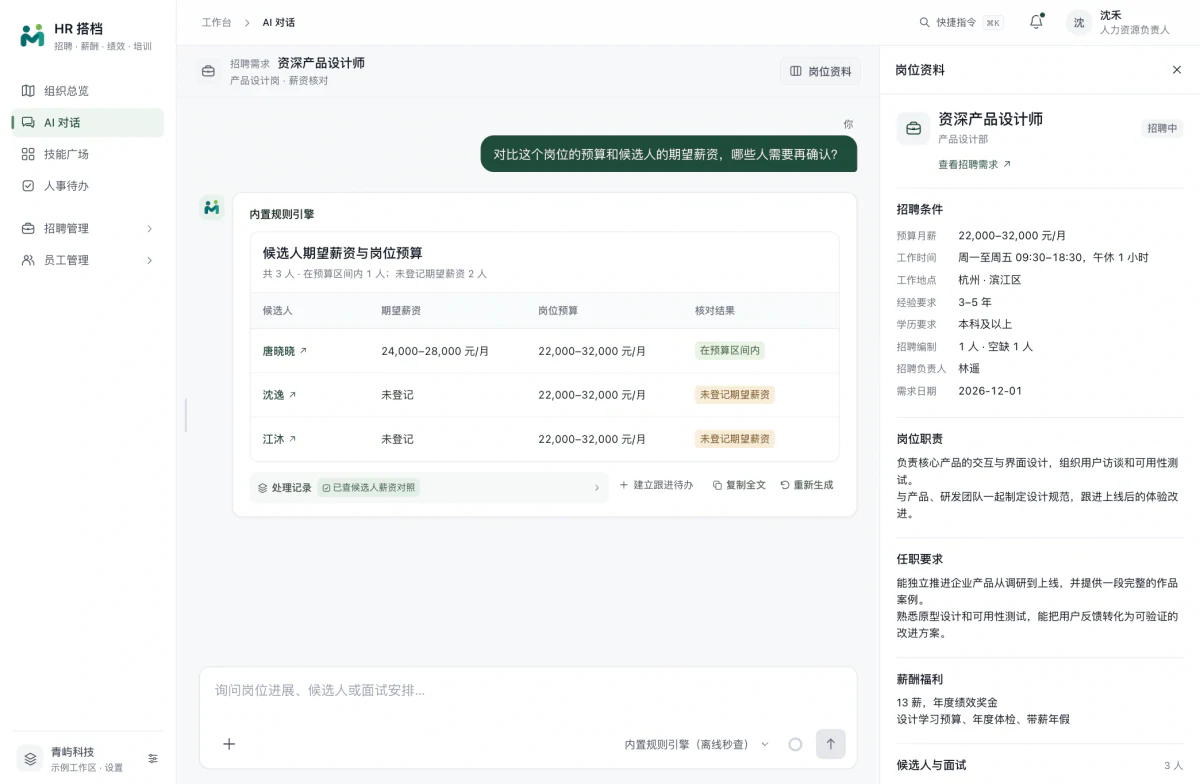
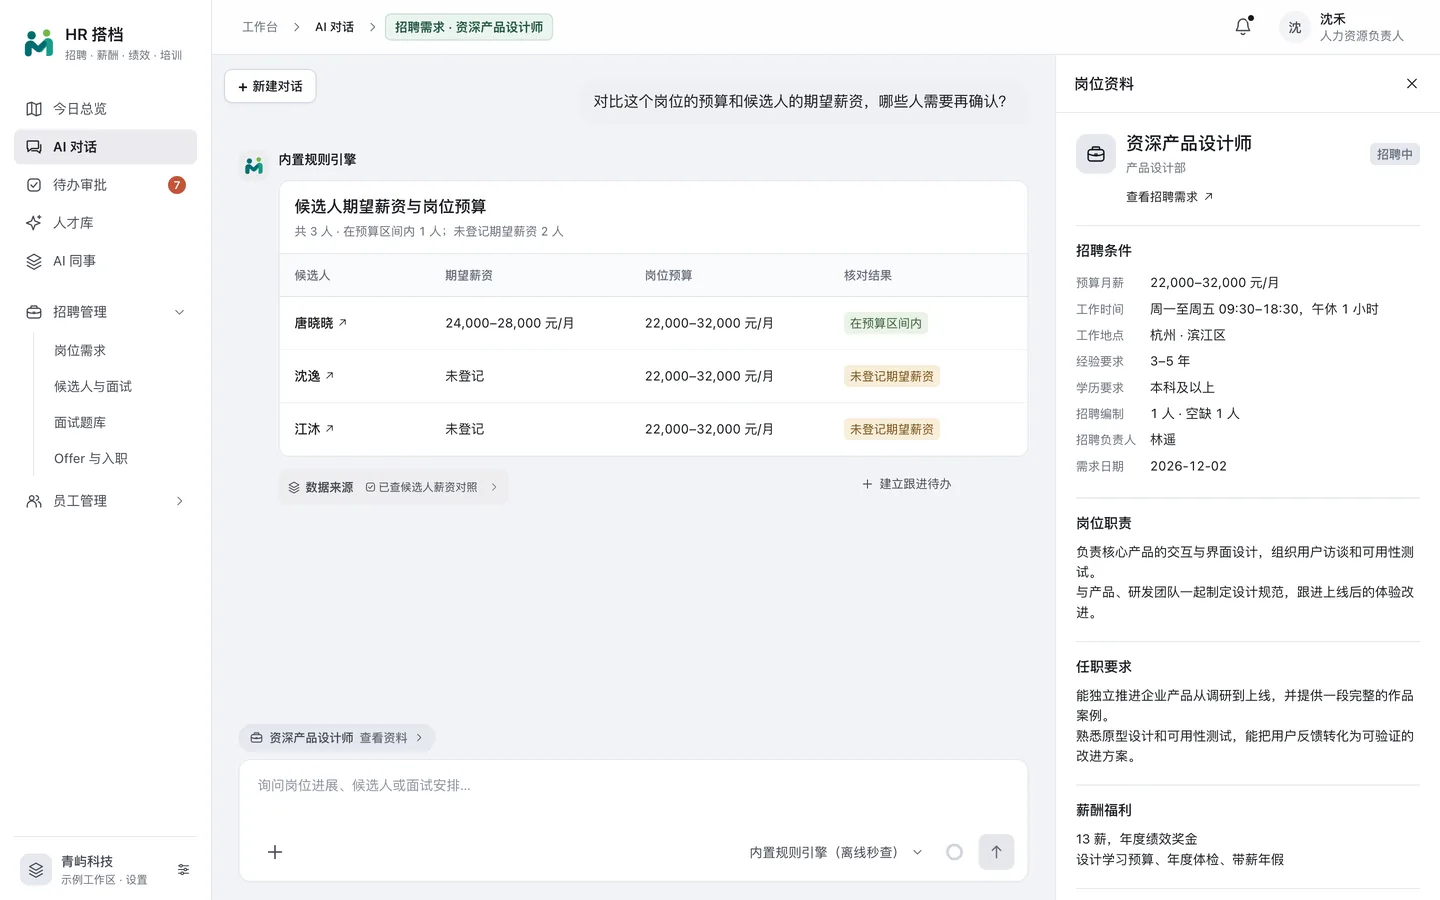
Update HR Studio showcase copy, live link, and 2x Retina screenshots

diff --git a/app/projects/hr-studio/page.tsx b/app/projects/hr-studio/page.tsx
@@ -8,13 +8,13 @@ import { LightboxProvider, LightboxTrigger, type LightboxItem } from "../Lightbo
 import { ProjectPager } from "../ProjectPager";
 
 const title = "HR 搭档 · AI 人事工作台";
-const description = "从工位打开员工档案，核对薪酬、绩效和培训记录。招聘团队可以从岗位需求跟进到面试和入职，也能在岗位会话里让 AI 整理面试材料。";
+const description = "以 AI 同事、待办审批、企业人才库与交互式组织地图为核心的 AI-Native 人事工作台。日常巡检由 AI 主动起草并汇总确认，员工档案、薪酬绩效与全流程招聘在同一工作区内闭环联动。";
 const base = "/projects/hr-studio";
 const cover = {
   url: base + "/workspace-overview.webp",
-  alt: "HR 搭档完整工作台，包括左侧导航、组织指标、六个部门的工位地图和当日事项",
-  width: 2304,
-  height: 2223,
+  alt: "HR 搭档工作台首页，包括左侧导航、组织指标、六个部门的工位地图、常驻 AI 同事条与当日事项",
+  width: 2880,
+  height: 2822,
 };
 
 export const metadata: Metadata = {
@@ -35,13 +35,52 @@ type Scene = {
   height?: number;
 };
 
+const aiNative: Scene[] = [
+  {
+    id: "ai-colleagues",
+    title: "四位专职 AI 同事，规则透明可控",
+    text: "寻访、面试、初筛与核薪四位搭档各司其职，卡片直接标明触发时机与执行方式。可随时暂停、调整规则与偏好记忆，并在同事列表、运行记录与技能广场之间一键切换。",
+    image: "ai-colleagues.webp",
+    width: 2880,
+    height: 1720,
+    alt: "AI 同事页面，展示寻访搭档、面试搭档、初筛搭档与核薪搭档的触发规则与启停开关",
+  },
+  {
+    id: "ai-inbox",
+    title: "待办审批：日常待办与 AI 建议同屏处理",
+    text: "同一页统一承接日常待办、AI 待确认与已处理记录。AI 产出的排期、催评、翻库推荐与核薪异常按事务分组，支持一键批量确认、改期或驳回并记住偏好。",
+    image: "ai-inbox.webp",
+    width: 2880,
+    height: 1840,
+    alt: "待办审批页面，按事务分组展示 AI 待确认建议，支持批量确认与切换日常待办",
+  },
+  {
+    id: "talent-pool",
+    title: "独立沉淀企业人才库",
+    text: "将银牌候选人、可回流前员工与在职活水沉淀为独立人才资产，直接标出经面试验证的技能、期望薪资、90 天冷却期与授权状态，避免重复打扰。",
+    image: "talent-pool.webp",
+    width: 2880,
+    height: 1800,
+    alt: "企业人才库列表，展示银牌候选人、前员工、验证技能与筛选标签",
+  },
+  {
+    id: "talent-rediscover",
+    title: "开新岗先翻库，一键激活或建岗",
+    text: "按在招岗位自动匹配库内高契合人选，点按即可加入候选人进入流程；也支持一句话输入需求直接建岗，优先盘活已有储备。",
+    image: "talent-rediscover.webp",
+    width: 2880,
+    height: 1800,
+    alt: "按岗位匹配人才库视图，展示匹配度与一键加入候选人操作",
+  },
+];
+
 const office: Scene = {
   id: "office",
   title: "点开工位，查看这位同事的档案",
   text: "点开产品设计部顾思远的工位，右侧就能读到他的岗位职责、工作经历和在司奖励。想看更近的变动，可以切到薪酬记录或绩效回顾。关上档案就回到原来的地图。",
   image: "office-person-drawer.webp",
-  width: 2304,
-  height: 1500,
+  width: 2880,
+  height: 1800,
   alt: "从组织地图点开员工后，右侧显示员工档案，背景仍可见原来的部门与工位",
 };
 
@@ -95,6 +134,8 @@ const hiring: Scene[] = [
     title: "沿着招聘看板跟进人选",
     text: "从上方漏斗选中一个阶段，查看相应的候选人。看板卡片保留岗位和面试安排，拖动到新阶段可继续办理。",
     image: "hiring-board.webp",
+    width: 2880,
+    height: 1840,
     alt: "招聘漏斗及按面试阶段排列的人选卡片",
   },
   {
@@ -129,22 +170,33 @@ const hiring: Scene[] = [
 
 const assistant: Scene[] = [
   {
+    id: "scope",
+    title: "绑定业务对象，边对话边核对资料",
+    text: "从左侧新建对话一键绑定部门、员工或招聘需求，顶部路径明确标注当前对象。讨论岗位或薪资时展开右侧资料，即可对照预算、人选期望与面试进度，并支持内置引擎离线秒查。",
+    image: "ai-context.webp",
+    width: 2880,
+    height: 1800,
+    alt: "对照岗位资料抽屉与候选人薪资信息的 AI 对话界面，顶部清晰标出当前绑定的招聘需求",
+  },
+  {
+    id: "skills",
+    title: "技能广场：复用与导入 HR 工作法",
+    text: "按招聘、面试、薪酬与组织场景沉淀标准技能，也支持导入 SKILL.md 扩展自定义流程，在 AI 对话中一键带入执行。",
+    image: "skills.webp",
+    width: 2880,
+    height: 1840,
+    alt: "技能广场页面，支持按分类筛选、搜索以及导入自定义技能",
+  },
+  {
     id: "interview",
     title: "根据简历和岗位准备追问",
     text: "在岗位会话中选定候选人，生成面试准备单。已记录的经历和有待确认的问题分开呈现，点击引用可以回到来源档案。",
     image: "ai-interview.webp",
     alt: "岗位会话里的候选人面试准备单与资料引用",
   },
-  {
-    id: "scope",
-    title: "边对话，边核对岗位资料",
-    text: "会话可以绑定部门、员工或招聘需求。讨论薪资时展开右侧资料，可同时查看岗位预算、候选人的期望和面试进度。",
-    image: "ai-context.webp",
-    alt: "对照岗位资料抽屉与候选人薪资信息的会话界面",
-  },
 ];
 
-const allScenes: Scene[] = [office, ...employee, ...hiring, ...assistant];
+const allScenes: Scene[] = [...aiNative, office, ...employee, ...hiring, ...assistant];
 const indexById = new Map<string, number>(allScenes.map((s, i) => [s.id, i + 1]));
 
 const lightboxItems: LightboxItem[] = [
@@ -197,6 +249,14 @@ export default function HRStudioPage() {
           <p className={styles.kicker}>03 · AI 人事工作台</p>
           <h1 id="hr-title" className={styles.longTitle}>{title}</h1>
           <p className={styles.lead}>{description}</p>
+          <a
+            href="https://hr-dadang.vercel.app/"
+            target="_blank"
+            rel="noopener noreferrer"
+            className={`cursor-target ${styles.demoLink}`}
+          >
+            在线体验 ↗
+          </a>
           <figure className={gallery.overview}>
             <LightboxTrigger
               index={0}
@@ -211,10 +271,17 @@ export default function HRStudioPage() {
         </section>
         <div className={styles.wrap}>
           <nav className={gallery.contents} aria-label="功能导览">
+            <a href="#ai-native">AI 同事与人才库</a>
             <a href="#employees">员工管理</a>
             <a href="#recruitment">招聘管理</a>
-            <a href="#ai">AI 面试协作</a>
+            <a href="#ai">AI 对话与技能</a>
           </nav>
+          <section id="ai-native" className={gallery.chapter} aria-labelledby="ai-native-title">
+            <h2 id="ai-native-title">AI 同事与人才库</h2>
+            <div className={gallery.grid}>
+              {aiNative.map((scene) => <Screen key={scene.id} scene={scene} />)}
+            </div>
+          </section>
           <section id="employees" className={gallery.chapter} aria-labelledby="employees-title">
             <h2 id="employees-title">员工管理</h2>
             <Screen scene={office} fitContent />
@@ -229,7 +296,7 @@ export default function HRStudioPage() {
             </div>
           </section>
           <section id="ai" className={gallery.chapter} aria-labelledby="ai-title">
-            <h2 id="ai-title">AI 面试协作</h2>
+            <h2 id="ai-title">AI 对话与技能</h2>
             <div className={gallery.grid}>
               {assistant.map((scene) => <Screen key={scene.id} scene={scene} />)}
             </div>

diff --git a/app/components/Work.tsx b/app/components/Work.tsx
@@ -95,18 +95,19 @@ const PROJECTS: ProjectItem[] = [
     category: "workbench",
     title: "HR 搭档 · AI 人事工作台",
     image: "/projects/hr-studio/office-card.webp",
-    imageAlt: "HR 搭档组织地图，六个部门的同事与招聘工位",
+    imageAlt: "HR 搭档组织地图，六个部门的同事与招聘工位以及常驻 AI 同事状态",
     imageFit: "map-cover",
     imageBg: "bg-[#f7f8f7]",
     cardHref: "/projects/hr-studio",
     primaryTag: "AI 人事工作台",
     primaryTagClass: "border-[#75ba9c]/45 bg-[#75ba9c]/[0.08] text-[#a1dfc2]",
     hoverBorderClass: "hover:border-[#75ba9c]/45",
-    tags: ["组织地图", "招聘与面试", "档案问答"],
+    tags: ["AI 同事与审批", "企业人才库", "组织地图"],
     summary:
-      "在办公室地图点选工位直达员工档案与薪酬台账，结合岗位专属会话辅助简历核验与面试追问。",
+      "由 4 位 AI 同事自动完成翻库匹配、面试排期、催评与核薪核对，结果汇总进待办审批确认；同步打通企业人才库、绑定业务上下文的 AI 对话与交互式组织地图。",
     actions: [
       { label: "查看产品演示", href: "/projects/hr-studio", variant: "primary", icon: "arrow" },
+      { label: "在线体验", href: "https://hr-dadang.vercel.app/", external: true, variant: "secondary", icon: "arrow" },
     ],
   },
   {
